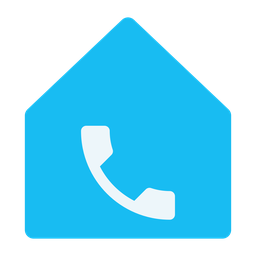
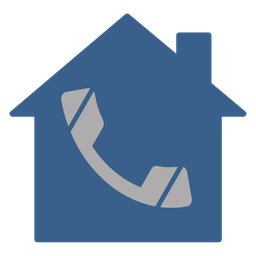
New brand mark: a filled house with a telephone handset
The previous icon used the Home Assistant house silhouette in their
exact brand blue (#18BCF2). That reads as an official integration,
contradicts the disclaimer in the README, and is explicitly rejected
by home-assistant/brands.

The new mark is a single unit: a filled house with a chimney, in
steel blue #38608B, with a classic handset inside it. It is unrelated
to the Home Assistant logo in both shape and colour, and it stays
legible at 48px, which is the size the UI actually renders.

The gate pinned the logo width, which failed any redesign with
different proportions. It now checks what the spec actually requires:
square icons at a fixed size, logos at a fixed height in landscape,
and @2x being an exact doubling.

diff --git a/tests/run_live.py b/tests/run_live.py
@@ -283,17 +283,34 @@ ok("גרסת HA מוצהרת", "homeassistant" in _hacs)
 # מאגר ה-brands, שאיננו בו. לכן הנתיב נגזר מהחבילה.
 import struct as _struct  # noqa: E402
 
-for _f, _w, _h in (("icon.png", 256, 256), ("icon@2x.png", 512, 512),
-                   ("logo.png", 543, 256), ("logo@2x.png", 1085, 512)):
+_dims = {}
+for _f in ("icon.png", "icon@2x.png", "logo.png", "logo@2x.png"):
     _img = _core_dir / "brand" / _f
     if not _img.exists():
         ok(f"brand/{_f} קיים בחבילה", False)
         continue
     _raw = _img.read_bytes()
-    _gw, _gh = _struct.unpack(">II", _raw[16:24])
-    ok(f"brand/{_f} — {_gw}×{_gh}", (_gw, _gh) == (_w, _h))
+    _dims[_f] = _struct.unpack(">II", _raw[16:24])
     # רקע שקוף: סוג צבע 6 הוא RGBA, 4 הוא אפור+אלפא.
     ok(f"brand/{_f} עם שקיפות", _raw[25] in (4, 6))
+
+# **האייקון ריבועי ובמידה קבועה; הלוגו נקבע בגובה בלבד.**
+# רוחב הלוגו נגזר מיחס הצורה, ולכן קיבוע שלו פוסל כל עיצוב חדש
+# שאינו באותן פרופורציות — וזה בדיוק מה שקרה בהחלפת הלוגו.
+for _f, _side in (("icon.png", 256), ("icon@2x.png", 512)):
+    if _f in _dims:
+        ok(f"brand/{_f} — {_dims[_f][0]}×{_dims[_f][1]}, ריבוע {_side}",
+           _dims[_f] == (_side, _side))
+for _f, _hh in (("logo.png", 256), ("logo@2x.png", 512)):
+    if _f in _dims:
+        _gw, _gh = _dims[_f]
+        ok(f"brand/{_f} — גובה {_gh}, לרוחב", _gh == _hh and _gw > _gh)
+# **@2x חייב להיות הכפלה מדויקת**, אחרת האייקון קופץ בגודל בין
+# מסך רגיל למסך רטינה.
+for _a, _b in (("icon.png", "icon@2x.png"), ("logo.png", "logo@2x.png")):
+    if _a in _dims and _b in _dims:
+        ok(f"{_b} הוא בדיוק פי 2 מ-{_a}",
+           _dims[_b] == (_dims[_a][0] * 2, _dims[_a][1] * 2))
 ok("אין brand בשורש הריפו", not (ROOT / "brand").exists())
 
 ok("LICENSE קיים ואינו ריק",
